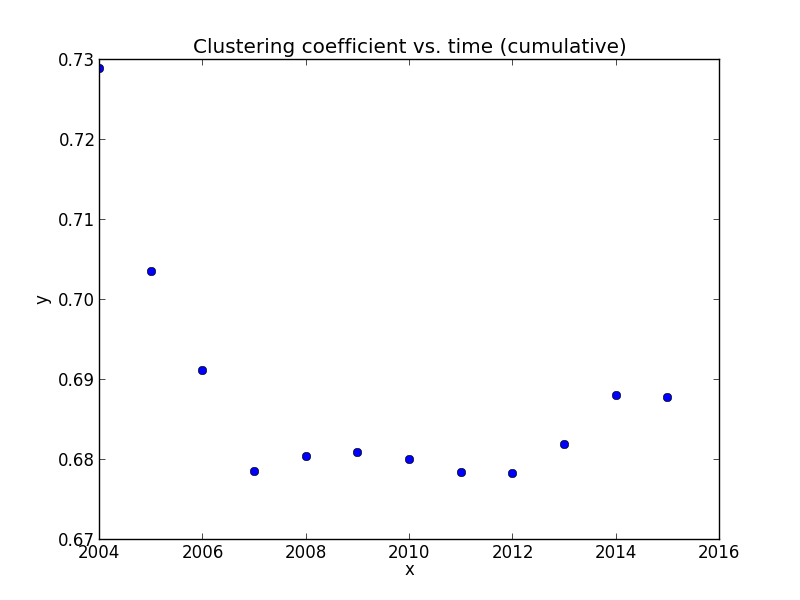
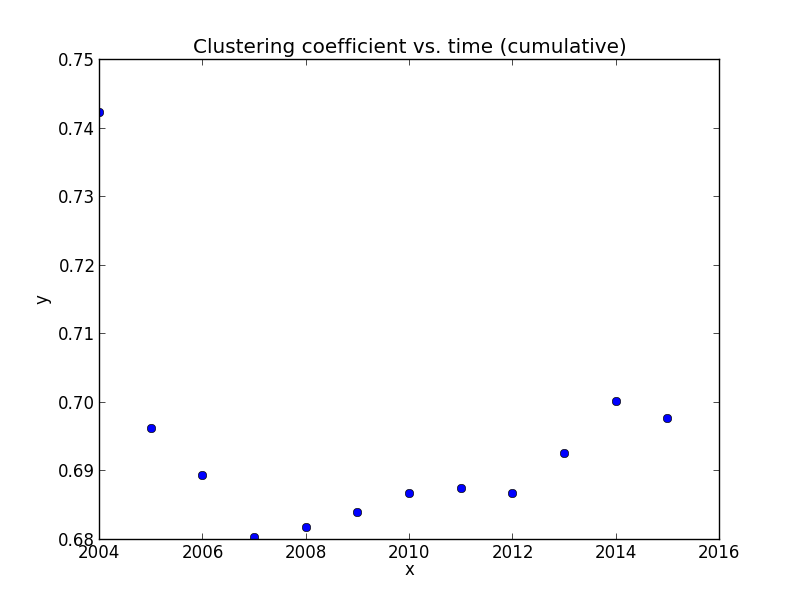
Fix graph merging

diff --git a/adrien/main.py b/adrien/main.py
@@ -9,7 +9,7 @@ import plotting
 import drawing
 import miscellaneous as misc
 
-text_analytics = True
+text_analytics = False
 graph_analytics = True
 
 # Update data and load the complete corpus
@@ -53,7 +53,7 @@ if graph_analytics:
                     if i == 2004:
                         graph = graphs[0]
                     else:
-                        graph = graph.merge(graphs[i-2004])
+                        graph.merge(graphs[i-2004])
                 else:
                     current_corpus = Corpus(False, title_lang='fr', year_a=i, year_b=i+1)
                     graph = GraphMining(current_corpus.collaboration_graph(str(i)+mode))

diff --git a/adrien/graph_mining.py b/adrien/graph_mining.py
@@ -14,12 +14,9 @@ class GraphMining:
         self.graph = source_graph
 
     def merge(self, graph2):
-        graph = nx.Graph(name=self.graph.name+'+'+graph2.graph.name)
-        graph.add_nodes_from(self.graph)
-        graph.add_nodes_from(graph2)
-        graph.add_edges_from(self.graph.edges())
-        graph.add_edges_from(graph2.edges())
-        return graph
+        self.graph.name = self.graph.name+'+'+graph2.graph.name
+        self.graph.add_nodes_from(graph2.graph)
+        self.graph.add_edges_from(graph2.graph.edges())
 
     def draw(self):
         nx.draw_graphviz(self.graph, name=self.graph.name)
